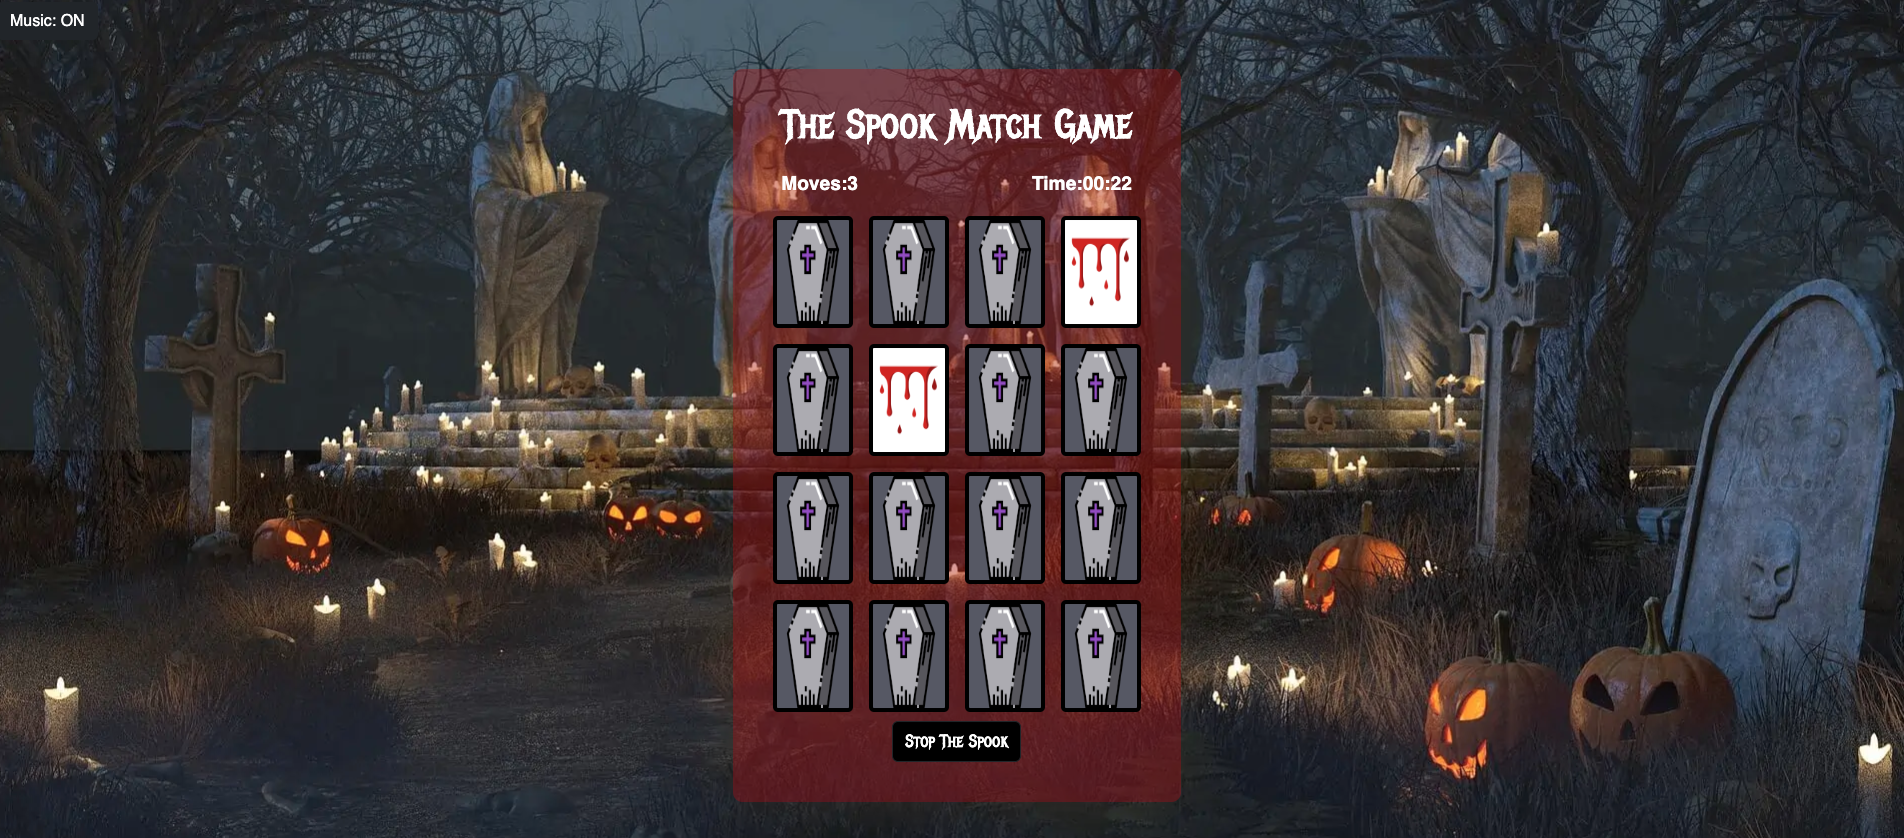
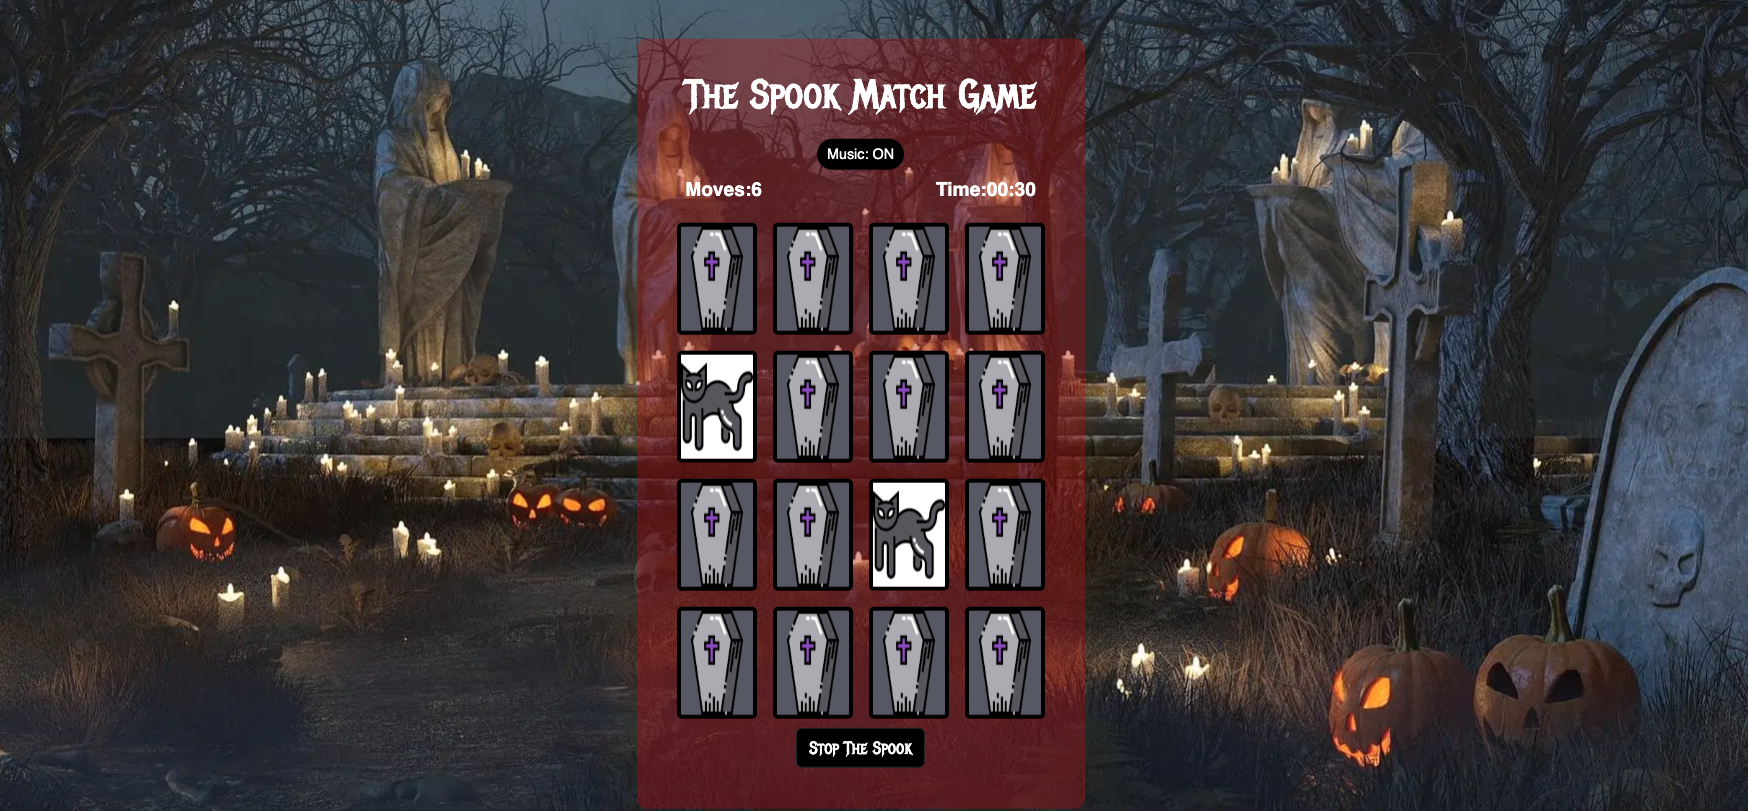
added full game feature to readme with screenshot of game

diff --git a/README.md b/README.md
@@ -23,3 +23,15 @@ As you play, every move counts! Each match you find brings you closer to victory
   * Game Initialization: After clicking the "I Understand" button on the Modal. The Start The Spook button starts the game, starting the time, moves-count, and a new set of shuffled cards.
 
     ![alt text](assets/docs/pages/start-spook.png "Game start button")
+
+* The Full Game
+
+  * Spooky Memory Challenge: The Spook Match Game is a Halloween-themed memory game where players flip cards to find matching spooky pairs, testing their memory and concentration.
+
+  * Timed & Move-Based Gameplay: Players must match all pairs as quickly as possible while keeping their move count low, adding a competitive and strategic element to the game.
+
+  * Immersive Experience: With eerie background music, creepy visuals, and a suspenseful atmosphere, the game creates a fun and engaging spooky adventure for players of all ages.
+
+    ![alt text](assets/docs/pages/game-full.png "The Full Game")
+  
+  * Endless Replayability: Each game is different thanks to the random card shuffle, encouraging players to keep improving their speed and memory skills with every round.
